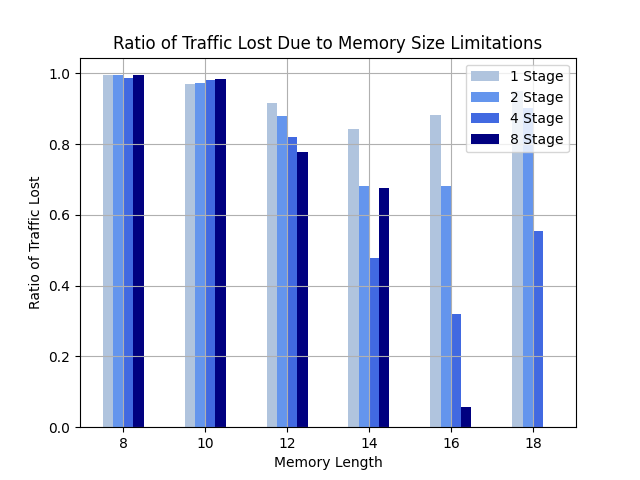
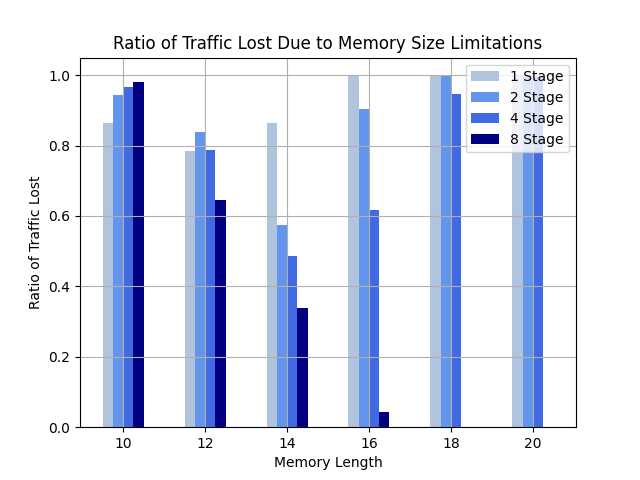
asdf

diff --git a/DNS_Netassay/PaperResults/stage_fix_3_27_2021/combined_sim_v1_2.py b/DNS_Netassay/PaperResults/stage_fix_3_27_2021/combined_sim_v1_2.py
@@ -85,8 +85,8 @@ def parse_dns_response(ip_packet, ts):
                     break
             break
 
-    for g in [1, 2, 4, 8]:
-        for q in range(10, 22, 2):
+    for g in [1, 2]:
+        for q in range(12, 20, 2):
 
             modulo = int((2 ** q) / g)
 
@@ -124,7 +124,7 @@ def parse_dns_response(ip_packet, ts):
                                     hashz = 0
                                 hashes_z.append(hashz)
 
-                                if(not hashz in usedHashes[g][q][z]): # entry is empty
+                                if(not hashz in usedHashes[g][q][z] and empty_entry == -1): # entry is empty
                                     empty_entry = z
                                 elif (ts - usedHashes[g][q][z][hashz][0] > best_timeout): # timestamp expires
                                     best_timeout = ts - usedHashes[g][q][z][hashz][0]
@@ -133,7 +133,8 @@ def parse_dns_response(ip_packet, ts):
                                     usedHashes[g][q][z][hashz][0] = ts
                                     match_existing = True
                                     break
-                                elif(g < z + 2): # missed dns entry
+                                
+                                if(g < z + 2): # missed dns entry
                                     break
 
                             if empty_entry != -1 and match_existing == False:
@@ -169,8 +170,8 @@ def parse_tcp(packet_len, ip_packet, ts):
     #clientIP32 = int.from_bytes(socket.inet_aton(dest), byteorder='big')
     salts = [np.uint64(134140211), np.uint64(187182238), np.uint64(187238), np.uint64(1853238), np.uint64(1828), np.uint64(12238), np.uint64(72134), np.uint64(152428), np.uint64(164314534), np.uint64(223823)]
 
-    for g in [1, 2, 4, 8]:
-        for q in range(10, 22, 2):
+    for g in [1, 2]:
+        for q in range(12, 20, 2):
             
             modulo = int((2 ** q) / g)
 
@@ -239,11 +240,11 @@ if __name__ == '__main__':
             unlimitedKnownDict[d] = [0, 0, 0, 0, 0, 0]
 
 
-    for i in [1, 2, 4, 8]:
+    for i in [1, 2]:
         knownlistDict_mem = {}
         netassayTable_mem = {}
         usedHash_mem = {}
-        for q in range(10, 22, 2):
+        for q in range(12, 20, 2):
             knownlistDict_q = {}
 
             for d in known_domains:
@@ -290,8 +291,8 @@ if __name__ == '__main__':
             print(packet_count / num_packets)
 
     outfile_stage = open('stage_limits.txt', 'w')
-    for v in [1, 2, 4, 8]:
-        for c in range(10, 22, 2):
+    for v in [1, 2]:
+        for c in range(12, 20, 2):
 
             packet_errors = []
             byte_errors = []

diff --git a/DNS_Netassay/PaperResults/stage_fix_3_27_2021/combined_sim_v1_2_3hr.py b/DNS_Netassay/PaperResults/stage_fix_3_27_2021/combined_sim_v1_2_3hr.py
@@ -124,7 +124,7 @@ def parse_dns_response(ip_packet, ts):
                                     hashz = 0
                                 hashes_z.append(hashz)
 
-                                if(not hashz in usedHashes[g][q][z]): # entry is empty
+                                if(not hashz in usedHashes[g][q][z] and empty_entry == -1): # entry is empty
                                     empty_entry = z
                                 elif (ts - usedHashes[g][q][z][hashz][0] > best_timeout): # timestamp expires
                                     best_timeout = ts - usedHashes[g][q][z][hashz][0]
@@ -133,7 +133,8 @@ def parse_dns_response(ip_packet, ts):
                                     usedHashes[g][q][z][hashz][0] = ts
                                     match_existing = True
                                     break
-                                elif(g < z + 2): # missed dns entry
+                                
+                                if(g < z + 2): # missed dns entry
                                     break
 
                             if empty_entry != -1 and match_existing == False:

diff --git a/DNS_Netassay/PaperResults/stage_fix_3_27_2021/combined_sim_v3_2_15min.py b/DNS_Netassay/PaperResults/stage_fix_3_27_2021/combined_sim_v3_2_15min.py
@@ -123,7 +123,7 @@ def parse_dns_response(ip_packet, ts):
                                 hashz = 0
                             hashes_z.append(hashz)
 
-                            if(not hashz in usedHashes[u][z]):
+                            if(not hashz in usedHashes[u][z] and empty_entry == -1):
                                 empty_entry = z
                             elif (ts - usedHashes[u][z][hashz][0] > best_timeout): # timestamp expires
                                 best_timeout = ts - usedHashes[u][z][hashz][0]
@@ -132,7 +132,8 @@ def parse_dns_response(ip_packet, ts):
                                 usedHashes[u][z][hashz][0] = ts
                                 match_existing = True
                                 break
-                            elif(STAGES < z + 2):
+                            
+                            if(STAGES < z + 2):
                                 break
                             
 

diff --git a/DNS_Netassay/PaperResults/stages/p4_graphs_bar.py b/DNS_Netassay/PaperResults/stages/p4_graphs_bar.py
@@ -31,7 +31,7 @@ for i in range(len(by_stage)):
     count = 0
     for r in rows:
         if i == 0:
-            memoryList.append(count)
+            memoryList.append(count + 10)
         values = r.split(',')
         stage_arrs[i].append(1 - float(values[2]) / bytes_60_total)
         count += 2
@@ -41,7 +41,7 @@ fig, ax = plt.subplots()
 
 width = 0.25
 
-selectedIndicies = [4,5,6,7,8,9]
+selectedIndicies = [0,1,2,3,4,5]
 stage_1 = [stage_arrs[0][i] for i in selectedIndicies]
 stage_2 = [stage_arrs[1][i] for i in selectedIndicies]
 stage_4 = [stage_arrs[2][i] for i in selectedIndicies]
